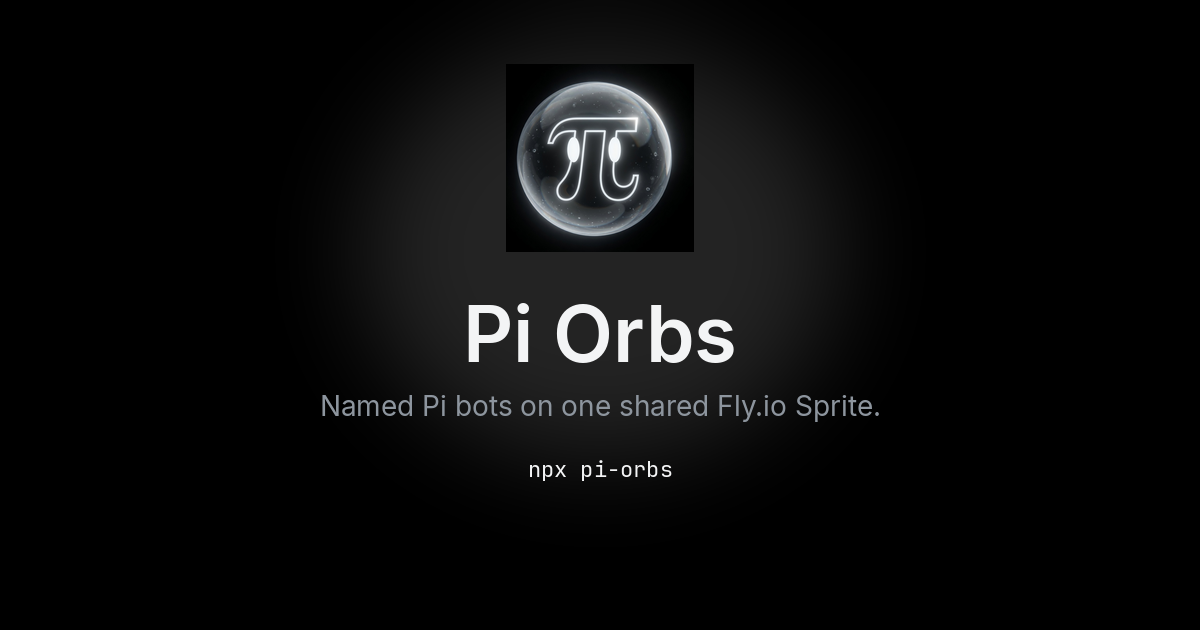
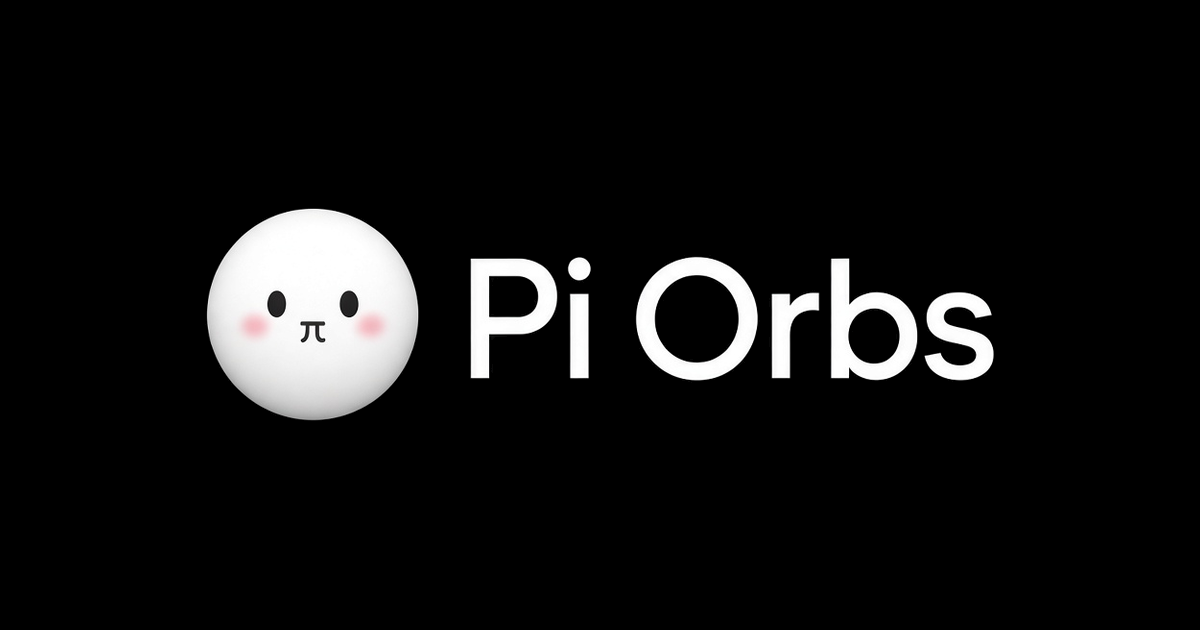
Use the white orb with a pi mouth as the brand mark
Replace the abstract glass logo on the app, homepage, and README, and refresh the Open Graph image with the black lockup. Page chrome stays black and white.

Fixes #31

Changed region(s): [[0.1542, 0.1206, 0.8325, 0.6937], [0.4317, 0.7238, 0.555, 0.754]]

diff --git a/index.html b/index.html
@@ -18,12 +18,12 @@
 <meta property="og:image:type" content="image/png">
 <meta property="og:image:width" content="1200">
 <meta property="og:image:height" content="630">
-<meta property="og:image:alt" content="Pi Orbs mark, a glass orb whose pi symbol reads as a pair of eyes">
+<meta property="og:image:alt" content="Pi Orbs, a white orb with a pi symbol for a mouth beside the name">
 <meta name="twitter:card" content="summary_large_image">
 <meta name="twitter:title" content="Pi Orbs">
 <meta name="twitter:description" content="Named Pi bots share one Fly.io Sprite as their computer. Try it with npx pi-orbs. The sprite CLI must be installed and logged in.">
 <meta name="twitter:image" content="https://piorbs.com/website/og.png">
-<meta name="twitter:image:alt" content="Pi Orbs mark, a glass orb whose pi symbol reads as a pair of eyes">
+<meta name="twitter:image:alt" content="Pi Orbs, a white orb with a pi symbol for a mouth beside the name">
 <meta name="theme-color" content="#000000">
 </head>
 <body id="top">
@@ -42,7 +42,7 @@
 <main id="content">
   <section class="hero">
     <div class="wrap">
-      <div class="glow hero-glow"><img class="hero-mark" src="website/logo.png" width="168" height="168" alt="Pi Orbs mark, a glass orb whose pi symbol reads as a pair of eyes"></div>
+      <div class="glow hero-glow"><img class="hero-mark" src="website/logo.png" width="168" height="168" alt="Pi Orbs mark, a white orb with a pi symbol for a mouth"></div>
       <h1>Pi Orbs</h1>
       <p class="one-liner">Named Pi bots on one shared Fly.io Sprite — <span>install the client, it deploys the server.</span></p>
       <div class="command">

diff --git a/CHANGELOG.md b/CHANGELOG.md
@@ -20,6 +20,7 @@ and this project adheres to [Semantic Versioning](https://semver.org/spec/v2.0.0
 
 ### Changed
 
+- Brand mark. The app icon, homepage, and README use the white orb with a pi mouth. The Open Graph image is the black lockup of that orb beside the name. Page chrome stays black and white.
 - Client UI. Glass-orb avatars, message bubbles, a quieter composer, brand glow, and an empty thread. Setup, roster, thread, add bot, and Settings behave as before.
 - Homepage at [piorbs.com](https://piorbs.com/). Spacing, type, screenshot frames, a launch video near the top, and an Open Graph image. The public try path is `npx pi-orbs`. Copy stays on Fly.io Sprites and the sprite CLI.
 - README. The public try path is `npx pi-orbs`. Refreshed interface screenshots in `docs/`.

diff --git a/README.md b/README.md
@@ -1,5 +1,5 @@
 <p align="center">
-  <img src="docs/logo.png" width="132" alt="Pi Orbs mark, a glass orb whose pi symbol reads as a pair of eyes">
+  <img src="docs/logo.png" width="132" alt="Pi Orbs mark, a white orb with a pi symbol for a mouth">
 </p>
 
 <h1 align="center">Pi Orbs</h1>
